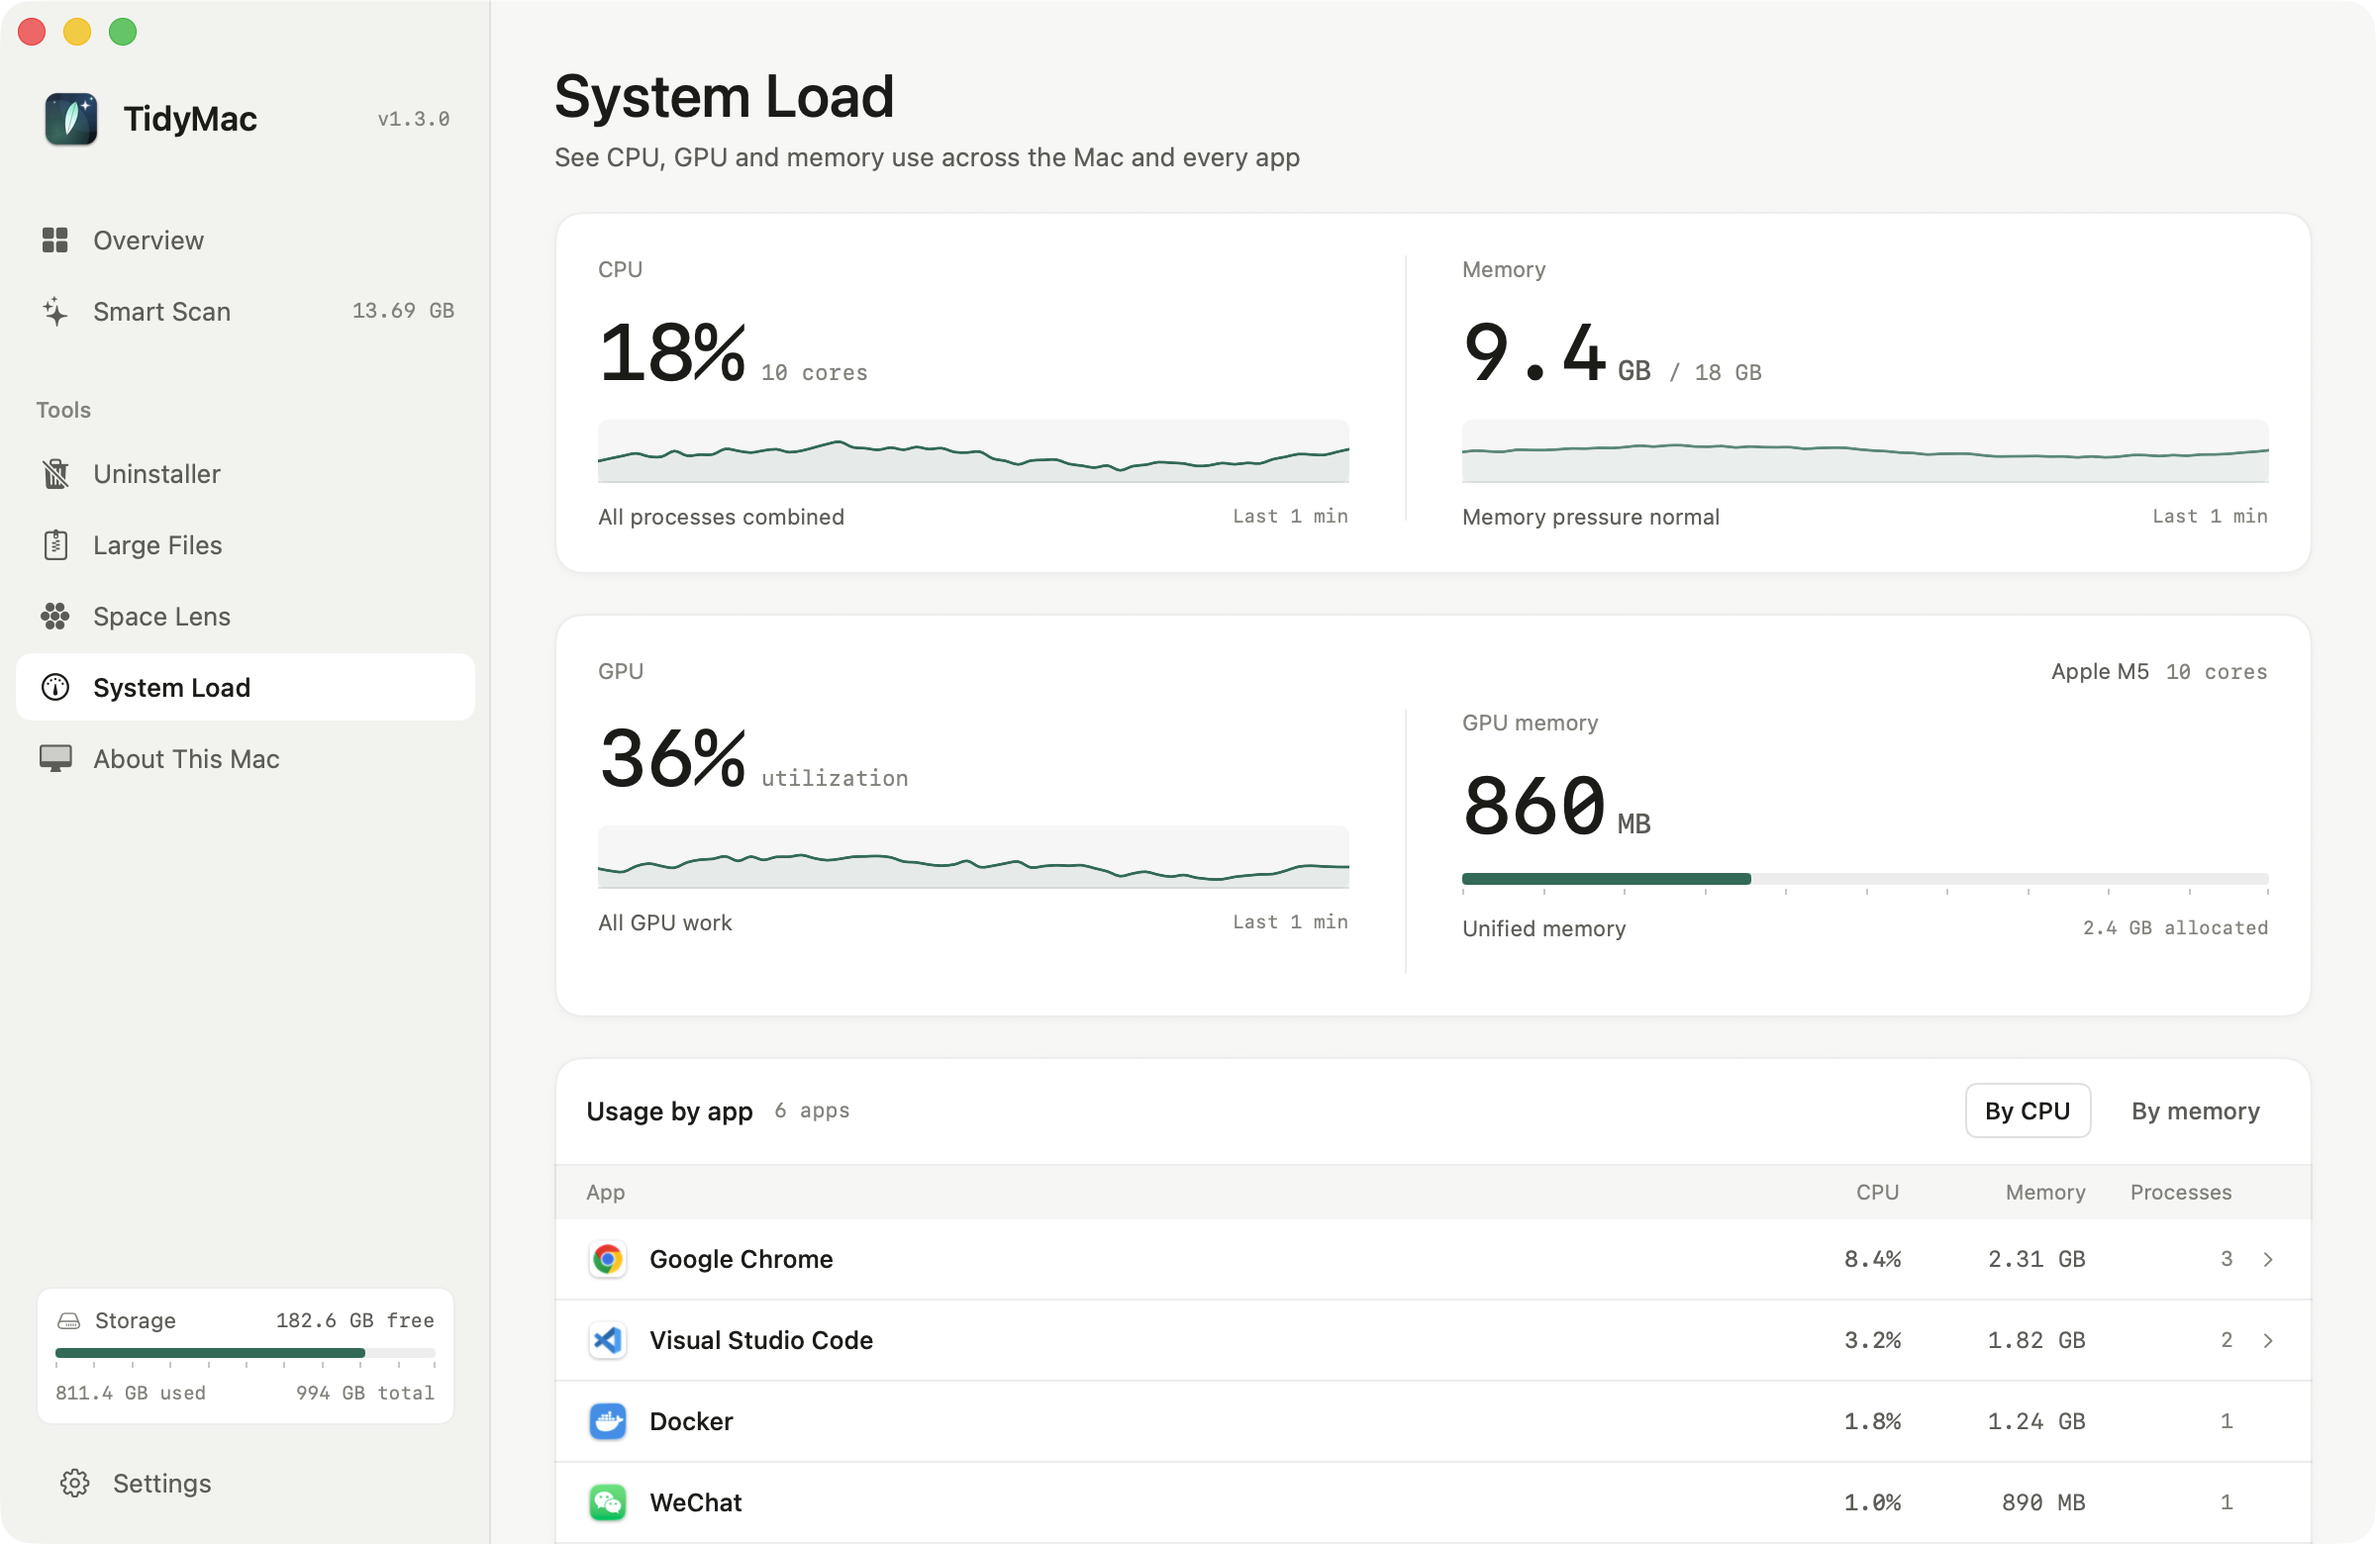
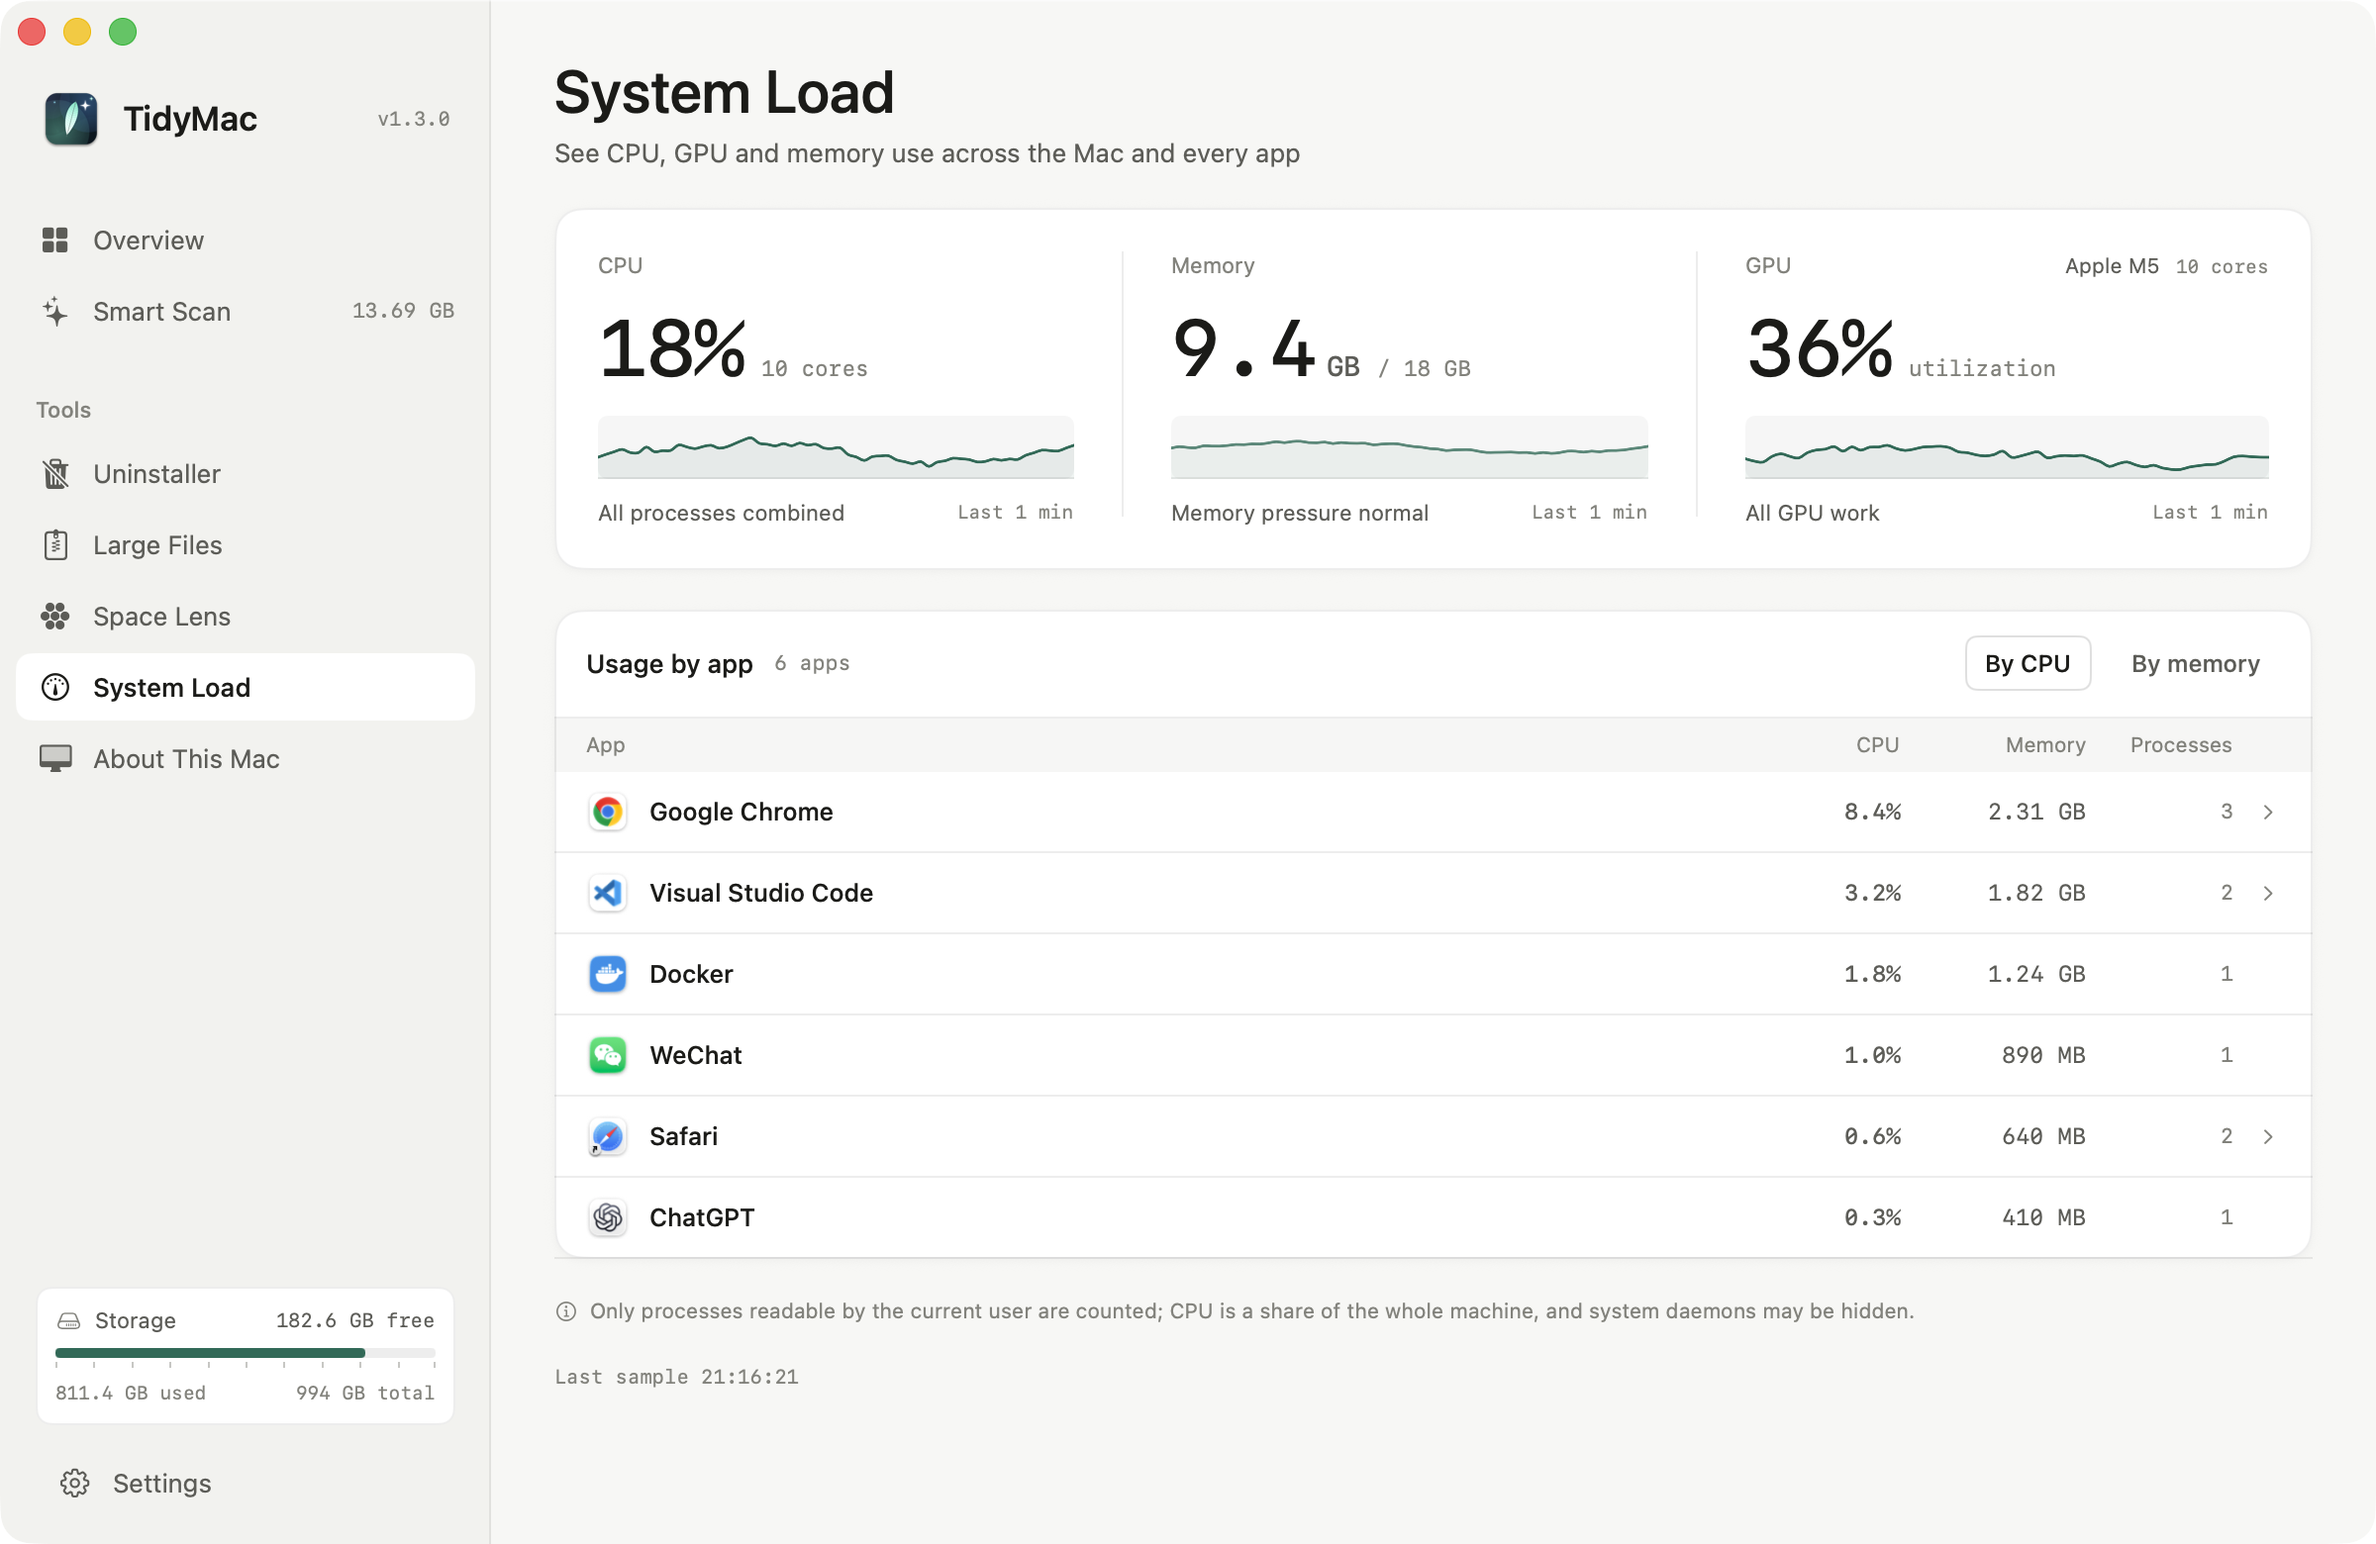
feat(ui): put GPU in the System Load summary row and widen the page

diff --git a/Sources/UI/SystemLoadPage.swift b/Sources/UI/SystemLoadPage.swift
@@ -30,7 +30,6 @@ struct SystemLoadPage: View {
                 PageHeader(title: "系统负载", subtitle: "查看整机与各 App 的 CPU、GPU、内存占用")
 
                 overallCard
-                gpuCard
                 appsCard
 
                 HStack(spacing: 6) {
@@ -49,9 +48,9 @@ struct SystemLoadPage: View {
                 }
             }
             .padding(.horizontal, Theme.pagePadding)
-            .padding(.top, 30)
-            .padding(.bottom, 40)
-            .frame(maxWidth: 1100)
+            .padding(.top, 28)
+            .padding(.bottom, 32)
+            .frame(maxWidth: .infinity, alignment: .leading)
         }
         .onAppear {
             monitor.start(isDemo: app.isDemo, includeApps: false)
@@ -72,14 +71,23 @@ struct SystemLoadPage: View {
         HStack(alignment: .top, spacing: 0) {
             cpuColumn
                 .frame(maxWidth: .infinity, alignment: .leading)
-                .padding(.trailing, 28)
+                .padding(.trailing, 24)
 
             Rectangle()
                 .fill(Theme.stroke)
                 .frame(width: 1, height: 134)
-                .padding(.trailing, 28)
+                .padding(.trailing, 24)
 
             memoryColumn
+                .frame(maxWidth: .infinity, alignment: .leading)
+                .padding(.trailing, 24)
+
+            Rectangle()
+                .fill(Theme.stroke)
+                .frame(width: 1, height: 134)
+                .padding(.trailing, 24)
+
+            gpuColumn
                 .frame(maxWidth: .infinity, alignment: .leading)
         }
         .qyPanel(padding: 22)
@@ -204,10 +212,8 @@ struct SystemLoadPage: View {
         }
     }
 
-    // MARK: - GPU
-
-    private var gpuCard: some View {
-        VStack(alignment: .leading, spacing: 12) {
+    private var gpuColumn: some View {
+        VStack(alignment: .leading, spacing: 10) {
             HStack(alignment: .firstTextBaseline, spacing: 8) {
                 Text("GPU")
                     .font(.system(size: 11))
@@ -215,110 +221,49 @@ struct SystemLoadPage: View {
                 Spacer(minLength: 8)
                 if let gpu = monitor.snapshot?.gpu {
                     Text(gpu.model)
-                        .font(.system(size: 11))
+                        .font(.system(size: 10.5))
                         .foregroundStyle(Theme.textSecondary)
+                        .lineLimit(1)
                     if gpu.coreCount > 0 {
                         Text(L("%@ 核", "\(gpu.coreCount)"))
-                            .font(Theme.monoFont(10.5))
+                            .font(Theme.monoFont(9.5))
                             .foregroundStyle(Theme.textTertiary)
                     }
                 }
             }
 
             if let gpu = monitor.snapshot?.gpu {
-                HStack(alignment: .top, spacing: 0) {
-                    gpuUtilizationColumn(gpu)
-                        .frame(maxWidth: .infinity, alignment: .leading)
-                        .padding(.trailing, 28)
+                HStack(alignment: .firstTextBaseline, spacing: 8) {
+                    FadingNumber(
+                        text: percent(gpu.utilizationFraction),
+                        font: Theme.monoFont(40, weight: .medium),
+                        color: Theme.textPrimary
+                    )
+                    Text(L("利用率"))
+                        .font(Theme.monoFont(11))
+                        .foregroundStyle(Theme.textTertiary)
+                }
 
-                    Rectangle()
-                        .fill(Theme.stroke)
-                        .frame(width: 1, height: 134)
-                        .padding(.trailing, 28)
+                TrendLayerView(values: gpuHistory, color: Theme.accent, minimumSpan: 0.08)
+                    .frame(height: 32)
+                    .padding(.top, 2)
 
-                    gpuMemoryColumn(gpu)
-                        .frame(maxWidth: .infinity, alignment: .leading)
+                HStack(spacing: 8) {
+                    Text(L("所有 GPU 任务"))
+                        .font(.system(size: 11))
+                        .foregroundStyle(Theme.textSecondary)
+                    Spacer(minLength: 8)
+                    Text(trendWindowLabel(monitor.gpuHistory.count))
+                        .font(Theme.monoFont(9.5))
+                        .foregroundStyle(Theme.textTertiary)
                 }
             } else {
+                Text("—")
+                    .font(Theme.monoFont(40, weight: .medium))
+                    .foregroundStyle(Theme.textTertiary)
                 Text(L("无法读取此设备的 GPU 统计"))
                     .font(.system(size: 11))
                     .foregroundStyle(Theme.textSecondary)
-                    .padding(.vertical, 8)
-            }
-        }
-        .qyPanel(padding: 22)
-    }
-
-    private func gpuUtilizationColumn(_ gpu: GPUMetrics) -> some View {
-        VStack(alignment: .leading, spacing: 10) {
-            HStack(alignment: .firstTextBaseline, spacing: 8) {
-                let text = percent(gpu.utilizationFraction)
-                FadingNumber(
-                    text: text,
-                    font: Theme.monoFont(40, weight: .medium),
-                    color: Theme.textPrimary
-                )
-                Text(L("利用率"))
-                    .font(Theme.monoFont(11))
-                    .foregroundStyle(Theme.textTertiary)
-            }
-
-            TrendLayerView(values: gpuHistory, color: Theme.accent, minimumSpan: 0.08)
-                .frame(height: 32)
-                .padding(.top, 2)
-
-            HStack(spacing: 8) {
-                Text(L("所有 GPU 任务"))
-                    .font(.system(size: 11))
-                    .foregroundStyle(Theme.textSecondary)
-                Spacer(minLength: 8)
-                Text(trendWindowLabel(monitor.gpuHistory.count))
-                    .font(Theme.monoFont(9.5))
-                    .foregroundStyle(Theme.textTertiary)
-            }
-        }
-    }
-
-    private func gpuMemoryColumn(_ gpu: GPUMetrics) -> some View {
-        VStack(alignment: .leading, spacing: 10) {
-            Text(L("GPU 内存"))
-                .font(.system(size: 11))
-                .foregroundStyle(Theme.textTertiary)
-
-            HStack(alignment: .firstTextBaseline, spacing: 4) {
-                let parts = Format.bytesParts(gpu.inUseBytes)
-                Text(parts.number)
-                    .font(Theme.monoFont(40, weight: .medium))
-                    .foregroundStyle(Theme.textPrimary)
-                    .id(parts.number)
-                    .transition(.opacity)
-                    .animation(.easeOut(duration: 0.18), value: parts.number)
-                if !parts.unit.isEmpty {
-                    Text(parts.unit)
-                        .font(Theme.monoFont(14, weight: .medium))
-                        .foregroundStyle(Theme.textSecondary)
-                        .id(parts.unit)
-                        .transition(.opacity)
-                        .animation(.easeOut(duration: 0.18), value: parts.unit)
-                }
-            }
-
-            CapacityRuler(
-                fraction: gpu.allocatedBytes > 0
-                    ? min(Double(gpu.inUseBytes) / Double(gpu.allocatedBytes), 1)
-                    : 0,
-                height: 6
-            )
-            .padding(.top, 2)
-
-            HStack(spacing: 8) {
-                Text(L("统一内存"))
-                    .font(.system(size: 11))
-                    .foregroundStyle(Theme.textSecondary)
-                Spacer(minLength: 8)
-                Text(L("已分配 %@", Format.bytes(gpu.allocatedBytes)))
-                    .font(Theme.monoFont(9.5))
-                    .foregroundStyle(Theme.textTertiary)
             }
         }
     }

diff --git a/README.md b/README.md
@@ -42,7 +42,7 @@ Also available as a [DMG disk image](https://github.com/welefen/TidyMac/raw/main
 - Re-analyze any folder you choose
 
 ### System Load
-- Live CPU, GPU and memory overview: whole-machine usage, last-1-minute trend recorded from app launch, memory pressure and swap; GPU shows utilization, unified-memory use and core count
+- Live CPU, GPU and memory overview: whole-machine usage, last-1-minute trend recorded from app launch, memory pressure and swap; GPU shows utilization and core count
 - Per-app CPU and memory, aggregated across helper processes, with expandable process details
 - One-second refresh; only processes readable by the current user are counted
 - Row order stays fixed while the pointer is over the list, so the end-app button keeps its place

diff --git a/README.zh-CN.md b/README.zh-CN.md
@@ -42,7 +42,7 @@ TidyMac 是一个原生 SwiftUI macOS 应用：扫描系统缓存与开发者垃
 - 支持选择任意目录重新分析
 
 ### 系统负载
-- 整机 CPU、GPU 与内存总览：整机使用率、最近 1 分钟趋势（应用启动后即开始记录）、内存压力与交换空间；GPU 显示利用率、统一内存占用与核心数
+- 整机 CPU、GPU 与内存总览：整机使用率、最近 1 分钟趋势（应用启动后即开始记录）、内存压力与交换空间；GPU 显示利用率与核心数
 - 按 App 汇总 CPU 与内存占用，并展开查看各子进程明细
 - 每秒刷新；仅统计当前用户可读取的进程
 - 鼠标停留在应用列表时行序保持稳定，结束按钮不会中途移位
